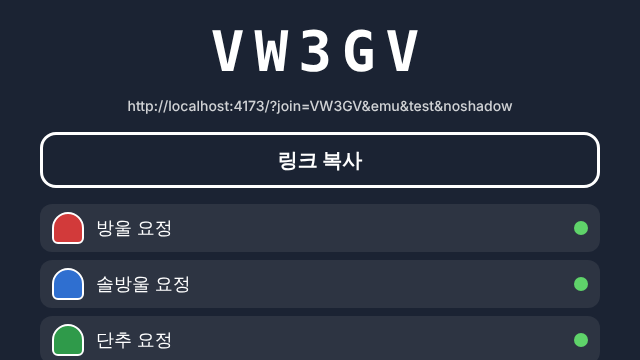
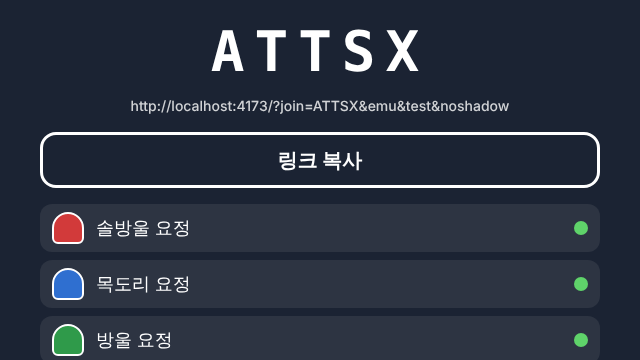
광장 성능: 낮음에서 가로등 빛·먼 배경 빼기, 장식 합치기
- 낮음 품질(주소 또는 설정)에서 가로등 점광원 0개, 먼 산·숲 배경 생략
- 돌 포장·돌담·화단 돌을 한 덩어리로 합치고 포장은 불투명으로
- 0장 낮음 FPS 5.9 → 10.2 (tests/perf/plaza-cost.spec.ts로 부분별 측정)
- 여러 기기 시험: 재접속 대기 60초, 느린 참가자 CPU 2배

Claude-Session: https://claude.ai/code/session_013wnimf1ouyZfR9DK6cFXAk

diff --git a/src/scene/plazaDressing.ts b/src/scene/plazaDressing.ts
@@ -5,6 +5,7 @@
 //   Poly Haven Snow 02 · Cobblestone Floor 001(512 px로 줄이고 대비를 낮춤), Tiny Treats Homely House(집·울타리·우편함).
 // 텍스처나 모델을 못 불러와도 색과 기본 도형으로 길·골목이 보인다. 저사양(detail: 'low')은 눈결·노멀맵을 뺀다.
 import * as THREE from 'three';
+import { mergeGeometries } from 'three/examples/jsm/utils/BufferGeometryUtils.js';
 import { RoundedBoxGeometry } from 'three/examples/jsm/geometries/RoundedBoxGeometry.js';
 import { PLAZA_DRESSING, PLAZA_PROPS, WORKSHOP, type Prop } from '../data/plaza';
 import { FENCE_SCALE, KENNEY_HOUSE_SCALE, MAILBOX_SCALE, TOWN } from '../data/townScale';
@@ -571,26 +572,26 @@ function ringBerm(): THREE.Group {
 /** 돌 포장 무늬: 트리를 둘러싼 동심원 줄눈(눈 사이로 살짝 보이는 회색 돌 테) */
 function pavingRings(): THREE.Group {
   const g = new THREE.Group();
-  const mat = new THREE.MeshStandardMaterial({ color: '#d6d2ca', roughness: 1, transparent: true, opacity: 0.55, depthWrite: false });
-  for (const r of [4.4, 8.8, 12.4]) {
-    const m = new THREE.Mesh(new THREE.RingGeometry(r - 0.09, r + 0.09, 96), mat);
-    m.rotation.x = -Math.PI / 2;
-    m.position.y = 0.004;
-    m.userData.flat = true;
-    g.add(m);
-  }
-  // 바퀴살 줄눈(8방향, 안쪽 고리 ~ 바깥 고리)
+  // 불투명(겹쳐 그리기 비용 없이): 바닥 눈빛과 섞인 옅은 회색
+  const mat = new THREE.MeshStandardMaterial({ color: '#e6e2da', roughness: 1, polygonOffset: true, polygonOffsetFactor: -1 });
+  // 고리 셋 + 바퀴살 열여섯을 한 덩어리로(그리기 호출 1번)
+  const parts: THREE.BufferGeometry[] = [];
+  const flat = new THREE.Matrix4().makeRotationX(-Math.PI / 2);
+  for (const r of [4.4, 8.8, 12.4]) parts.push(new THREE.RingGeometry(r - 0.09, r + 0.09, 96).applyMatrix4(flat));
   for (let k = 0; k < 16; k++) {
     const a = (k / 16) * Math.PI * 2 + Math.PI / 16;
-    const len = 12.4 - 4.4;
-    const m = new THREE.Mesh(new THREE.PlaneGeometry(0.14, len), mat);
-    m.rotation.x = -Math.PI / 2;
-    m.rotation.z = -a + Math.PI / 2;
     const r = (12.4 + 4.4) / 2;
-    m.position.set(Math.cos(a) * r, 0.004, Math.sin(a) * r);
-    m.userData.flat = true;
-    g.add(m);
+    const geo = new THREE.PlaneGeometry(0.14, 12.4 - 4.4);
+    geo.applyMatrix4(new THREE.Matrix4().makeRotationZ(-a + Math.PI / 2));
+    geo.applyMatrix4(flat);
+    geo.translate(Math.cos(a) * r, 0, Math.sin(a) * r);
+    parts.push(geo);
   }
+  for (const p of parts) p.deleteAttribute('uv');
+  const m = new THREE.Mesh(mergeGeometries(parts.map((p) => p.toNonIndexed()))!, mat);
+  m.position.y = 0.004;
+  m.userData.flat = true;
+  g.add(m);
   return g;
 }
 
@@ -601,19 +602,20 @@ function cameraSideWall(): THREE.Group {
   const snow = new THREE.MeshStandardMaterial({ color: '#f6f8fc', roughness: 1 });
   const R = PLAZA_DRESSING.ring.r + 0.9;
   const alleys = PLAZA_DRESSING.ring.alleys;
+  // 돌·눈 덮개를 각각 한 덩어리로(그리기 호출 2번)
+  const stones: THREE.BufferGeometry[] = [];
+  const caps: THREE.BufferGeometry[] = [];
+  const m4 = new THREE.Matrix4();
   for (let deg = 26; deg <= 118; deg += 3.2) {
     if (alleys.some((a) => Math.abs(deg - a.deg) < 13)) continue;
     const a = (deg * Math.PI) / 180;
     const len = ((Math.PI * 2 * R) / 360) * 3.2 * 0.96;
-    const b = new THREE.Mesh(new THREE.BoxGeometry(0.5, 0.55, len), stone);
-    b.position.set(Math.cos(a) * R, 0.27, Math.sin(a) * R);
-    b.rotation.y = -a;
-    b.castShadow = true;
-    g.add(b);
-    const cap = new THREE.Mesh(new THREE.BoxGeometry(0.58, 0.12, len), snow);
-    cap.position.set(Math.cos(a) * R, 0.6, Math.sin(a) * R);
-    cap.rotation.y = -a;
-    g.add(cap);
+    stones.push(new THREE.BoxGeometry(0.5, 0.55, len).applyMatrix4(m4.makeRotationY(-a).setPosition(Math.cos(a) * R, 0.27, Math.sin(a) * R)));
+    caps.push(new THREE.BoxGeometry(0.58, 0.12, len).applyMatrix4(m4.makeRotationY(-a).setPosition(Math.cos(a) * R, 0.6, Math.sin(a) * R)));
+  }
+  if (stones.length) {
+    g.add(new THREE.Mesh(mergeGeometries(stones)!, stone));
+    g.add(new THREE.Mesh(mergeGeometries(caps)!, snow));
   }
   g.traverse((o) => (o.userData.noCast = true));
   return g;

diff --git a/src/scene/plaza.ts b/src/scene/plaza.ts
@@ -1,6 +1,7 @@
 // 광장 소품. Kenney 모델(CC0)이 있으면 그것으로, 없으면 기본 도형으로 그린다. 배치는 src/data/plaza.ts를 따른다.
 // 썰매·눈더미·산타·시계탑은 아직 직접 만든 기본 도형이다.
 import * as THREE from 'three';
+import { mergeGeometries } from 'three/examples/jsm/utils/BufferGeometryUtils.js';
 import { PLAZA_BOUNDS, PLAZA_PROPS, PLAZA_R, WORKBENCH, WORKSHOP, type Prop, type PropKind } from '../data/plaza';
 
 /** 요정을 가리면 잠시 흐려지는 큰 물체(집·공방·창고·나무·시계탑·썰매·산타·가로등) */
@@ -103,16 +104,20 @@ function house(w: number, d: number): THREE.Group {
 function treeBed(r: number): THREE.Group {
   const g = new THREE.Group();
   const stone = new THREE.MeshStandardMaterial({ color: '#a8a39a', roughness: 0.95 });
+  // 돌 28개를 한 덩어리로(그리기 호출 1번)
   const n = 28;
+  const parts: THREE.BufferGeometry[] = [];
+  const m4 = new THREE.Matrix4();
   for (let i = 0; i < n; i++) {
     const a = (i / n) * Math.PI * 2;
-    const b = new THREE.Mesh(new THREE.BoxGeometry(0.55, 0.42, ((Math.PI * 2 * r) / n) * 0.96), stone);
-    b.position.set(Math.cos(a) * (r - 0.25), 0.21, Math.sin(a) * (r - 0.25));
-    b.rotation.y = -a;
-    b.castShadow = true;
-    b.receiveShadow = true;
-    g.add(b);
+    const geo = new THREE.BoxGeometry(0.55, 0.42, ((Math.PI * 2 * r) / n) * 0.96);
+    geo.applyMatrix4(m4.makeRotationY(-a).setPosition(Math.cos(a) * (r - 0.25), 0.21, Math.sin(a) * (r - 0.25)));
+    parts.push(geo);
   }
+  const stones = new THREE.Mesh(mergeGeometries(parts)!, stone);
+  stones.castShadow = true;
+  stones.receiveShadow = true;
+  g.add(stones);
   // 돌 위·흙 위의 눈
   const snow = new THREE.MeshStandardMaterial({ color: '#f6f8fc', roughness: 1 });
   const cap = new THREE.Mesh(new THREE.TorusGeometry(r - 0.25, 0.2, 6, 40), snow);
@@ -199,7 +204,7 @@ export function townLamp(): THREE.Group {
   return g;
 }
 
-function build(p: Prop, models: Models, lampLights: { n: number }): THREE.Object3D {
+function build(p: Prop, models: Models, lampLights: { n: number; max: number }): THREE.Object3D {
   switch (p.kind) {
     case 'sleigh': return scaled(sleigh(), 1.8); // 산타 썰매: 산타(사람 어른)가 앉을 크기
     case 'snowPile': return scaled(snowPile(2.2), ((p.r ?? 2.2) / 2.2) * 1.25); // 썰매 앞이 처박힌 눈둑
@@ -233,8 +238,8 @@ function build(p: Prop, models: Models, lampLights: { n: number }): THREE.Object
       const pool = warmPool(1.6);
       pool.position.y = 0.003;
       g.add(pool);
-      // 빛은 세 개까지만(저사양 기기). 높아진 등불에서 바닥까지 닿게
-      if (lampLights.n++ < 3) {
+      // 빛은 세 개까지만, 낮음 품질에서는 없음(점광원이 0장 낮음 FPS를 가장 많이 깎았다: 5.9 → 11.4). 바닥 빛 웅덩이는 남긴다
+      if (lampLights.n++ < lampLights.max) {
         const light = new THREE.PointLight('#ffd98a', 14, 13, 1.6);
         light.position.y = TOWN.lampLight;
         g.add(light);
@@ -281,7 +286,7 @@ export function createPlaza(models: Models = Models.none(), detail: Detail = 'no
   void applySnowSurface([{ mat: groundMat, w, d }, { mat: apronMat, w: w + 80, d: d + 80 }], import.meta.env.BASE_URL, detail);
   root.add(createPlazaDressing(models, import.meta.env.BASE_URL, detail));
 
-  const lampLights = { n: 0 };
+  const lampLights = { n: 0, max: detail === 'low' ? 0 : 3 };
   for (const p of PLAZA_PROPS) {
     const o = build(p, models, lampLights);
     o.position.x = p.x;

diff --git a/src/game/chapter0.ts b/src/game/chapter0.ts
@@ -88,12 +88,16 @@ export function startChapter0(models: Models, opts?: StoryOptions): void {
   // ?quality=low: 실시간 그림자·눈결·노멀맵을 뺀다(길·표식·골목은 색으로 그대로 보인다)
   const low = params.get('quality') === 'low';
   const light = createWinterLight(scene, renderer, { shadows: !low && !params.has('noshadow'), mapSize: touchDevice ? 1024 : 2048 });
-  const plaza = createPlaza(models, low ? 'low' : 'normal');
+  const lowScene = low || loadSettings(browserStorage()).quality === 'low';
+  const plaza = createPlaza(models, lowScene ? 'low' : 'normal');
   setShadows(plaza, true);
   scene.add(plaza);
-  // 광장 너머: 1·3·4장과 같은 산·숲·하늘(광장과 둘레 집, 사진기 쪽 남동은 비운다)
-  scene.add(createBackdrop(models, { center: { x: 0, z: 0 }, forest: [16, 95], trees: 420, keepOut: (p) => Math.hypot(p.x, p.z) < 32 || (p.x + p.z > 10 && Math.hypot(p.x, p.z) < 70) }));
-  addHaze(scene);
+  // 광장 너머: 1·3·4장과 같은 산·숲·하늘(광장과 둘레 집, 사진기 쪽 남동은 비운다).
+  // 낮음: 광장은 집으로 둘러싸여 하늘이 조금만 보인다 → 먼 배경을 빼서 가볍게(낮음 0장 FPS가 반으로 떨어졌다)
+  if (!lowScene) {
+    scene.add(createBackdrop(models, { center: { x: 0, z: 0 }, forest: [16, 95], trees: 260, keepOut: (p) => Math.hypot(p.x, p.z) < 32 || (p.x + p.z > 10 && Math.hypot(p.x, p.z) < 70) }));
+    addHaze(scene);
+  }
   const markers = createMarkers();
   scene.add(markers.root);
   // 썰매에서 떨어진 물건이 미끄러진 자국: 자국 끝에 주울 물건이 있다
@@ -579,6 +583,8 @@ export function startChapter0(models: Models, opts?: StoryOptions): void {
       sortEvents: () => events.map((e) => JSON.parse(JSON.stringify(e))),
       run: () => ({ ...run.state }),
       playLog: () => meter.current(),
+      /** 점검(시험만): 장면 직접(무엇이 무거운지 하나씩 숨겨 재기) */
+      scene: () => scene,
       runEffects: () => run.log.map((e) => e.type),
       savedCheckpoint: () => localStorage.getItem('lastgift.cp.v1.dev-ch0'),
       /** 화면 비교 촬영용: 지금 카메라(바라보는 땅 위 점, 화면 높이 m, 각도) */

diff --git a/tests/perf/plaza-cost.spec.ts b/tests/perf/plaza-cost.spec.ts
@@ -1,0 +1,45 @@
+// 점검: 0장 광장에서 무엇이 무거운지(낮음 품질) 하나씩 숨기고 FPS를 잰다. 실행: npx playwright test --project=perf plaza-cost
+import { test } from '@playwright/test';
+
+test('0장 광장 부분별 비용(낮음)', async ({ page }) => {
+  test.setTimeout(300_000);
+  await page.goto('/?chapter=0&test&quality=low');
+  await page.waitForFunction(() => !!(window as unknown as { __lastgift?: { sorting?: unknown } }).__lastgift?.sorting, null, { timeout: 60_000 });
+  await page.waitForTimeout(5000);
+  const fps = () =>
+    page.evaluate(
+      () =>
+        new Promise<number>((res) => {
+          let n = 0;
+          const t0 = performance.now();
+          const f = (t: number) => (t - t0 < 4000 ? (n++, requestAnimationFrame(f)) : res(n / ((t - t0) / 1000)));
+          requestAnimationFrame(f);
+        }),
+    );
+  const hide = (pred: string, on: boolean) =>
+    page.evaluate(
+      ([pred, on]) => {
+        const sc = (window as unknown as { __lastgift: { scene(): { traverse(f: (o: { name: string; visible: boolean; userData: Record<string, unknown> }) => void): void } } }).__lastgift.scene();
+        const test = new Function('o', `return ${pred}`) as (o: unknown) => boolean;
+        sc.traverse((o) => {
+          if (test(o)) o.visible = !on;
+        });
+      },
+      [pred, on] as const,
+    );
+  const out: string[] = [`전부 ${(await fps()).toFixed(1)}`];
+  for (const [label, pred] of [
+    ['사람 집', "o.name.startsWith('house-')"],
+    ['꾸밈(길·눈둑·돌담·노점·먼 마을)', "o.name === 'plazaDressing'"],
+    ['트리', "o.name === 'tree'"],
+    ['공방', "o.name === 'workshop'"],
+    ['소나무', "o.name.startsWith('pine')"],
+    ['시계탑', "o.name === 'clockTower'"],
+    ['가로등', "o.name.startsWith('lamp')"],
+  ] as const) {
+    await hide(pred, true);
+    out.push(`${label} 숨김 ${(await fps()).toFixed(1)}`);
+    await hide(pred, false);
+  }
+  console.log(out.join('\n'));
+});

diff --git a/src/game/finale.ts b/src/game/finale.ts
@@ -87,12 +87,16 @@ export function startFinale(models: Models, startChapter: 5 | 6, opts?: StoryOpt
   const touchDevice = window.matchMedia?.('(pointer: coarse)').matches ?? false;
   const low = params.get('quality') === 'low';
   const light = createWinterLight(scene, renderer, { shadows: !low && !params.has('noshadow'), mapSize: touchDevice ? 1024 : 2048 });
-  const plaza = createPlaza(models, low ? 'low' : 'normal');
+  const lowScene = low || loadSettings(browserStorage()).quality === 'low';
+  const plaza = createPlaza(models, lowScene ? 'low' : 'normal');
   setShadows(plaza, true);
   scene.add(plaza);
-  // 광장 너머: 1·3·4장과 같은 산·숲·하늘(광장과 둘레 집, 사진기 쪽 남동은 비운다)
-  scene.add(createBackdrop(models, { center: { x: 0, z: 0 }, forest: [16, 95], trees: 420, keepOut: (p) => Math.hypot(p.x, p.z) < 32 || (p.x + p.z > 10 && Math.hypot(p.x, p.z) < 70) }));
-  addHaze(scene);
+  // 광장 너머: 1·3·4장과 같은 산·숲·하늘(광장과 둘레 집, 사진기 쪽 남동은 비운다).
+  // 낮음: 광장은 집으로 둘러싸여 하늘이 조금만 보인다 → 먼 배경을 빼서 가볍게(낮음 0장 FPS가 반으로 떨어졌다)
+  if (!lowScene) {
+    scene.add(createBackdrop(models, { center: { x: 0, z: 0 }, forest: [16, 95], trees: 260, keepOut: (p) => Math.hypot(p.x, p.z) < 32 || (p.x + p.z > 10 && Math.hypot(p.x, p.z) < 70) }));
+    addHaze(scene);
+  }
   // 기본 도형 산타는 숨기고 에셋 산타를 쓴다. 썰매는 도토가 고쳐 바로 서 있다
   const plainSanta = plaza.getObjectByName('santa');
   if (plainSanta) plainSanta.visible = false;
